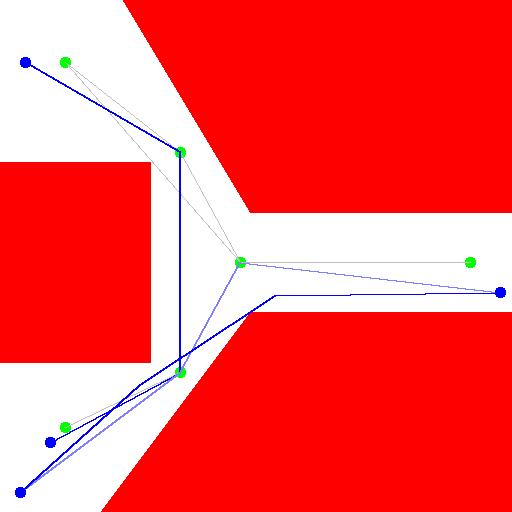
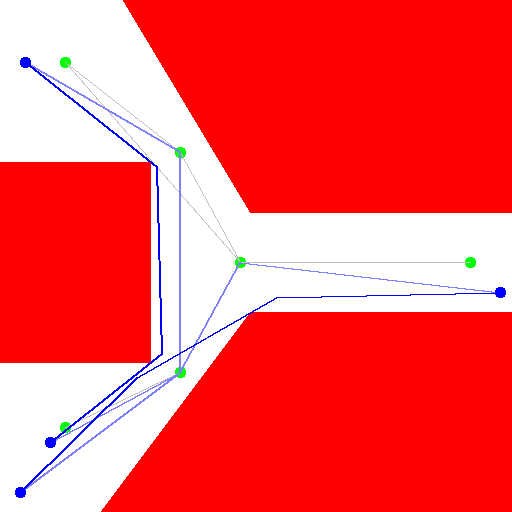
fix improve path

diff --git a/path_finder.py b/path_finder.py
@@ -141,6 +141,8 @@ class MapDesc:
         return points
 
     def improve_path(self, points):
+        iterations = 16
+
         def length(path):
             r = 0
             for i in xrange(len(points) - 1):
@@ -150,7 +152,7 @@ class MapDesc:
                 r += math.sqrt(x * x + y * y)
             return r
         before = length(points)
-        for x in xrange(2):
+        for x in xrange(iterations):
             for i in xrange(len(points) - 2):
                 a = points[i + 0]
                 b = points[i + 1]
@@ -158,9 +160,9 @@ class MapDesc:
 
                 p0 = b
                 p1 = ((a[0] + c[0]) / 2, (a[1] + c[1]) / 2)
-                for j in xrange(2):
+                for j in xrange(iterations):
                     p = ((p0[0] + p1[0]) / 2, (p0[1] + p1[1]) / 2)
-                    if self._has_direct_path(p0, p) and self._has_direct_path(p, p1):
+                    if self._has_direct_path(a, p) and self._has_direct_path(c, p):
                         p0, p1 = p, p1
                     else:
                         p0, p1 = p0, p
@@ -176,6 +178,7 @@ if __name__ == '__main__':
     map.draw()
 
     path = map.build_path((50, 70), (25, 450))
+    # path = map.build_path((50, 70), (160, 250))
     map.draw_path(path, color=(128, 128, 255, 255))
     map.draw_path(map.improve_path(path))
 
